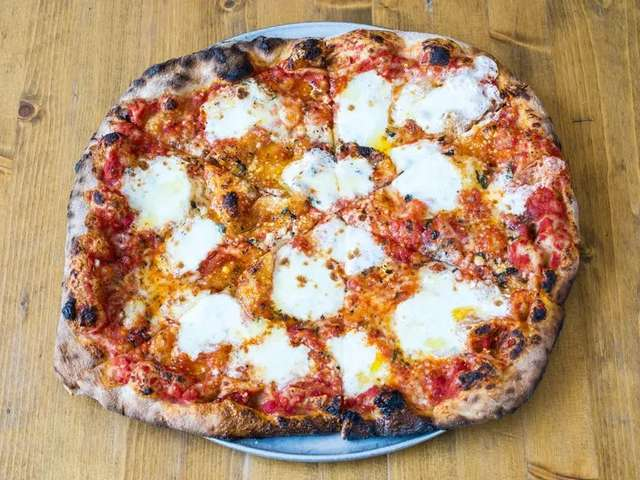
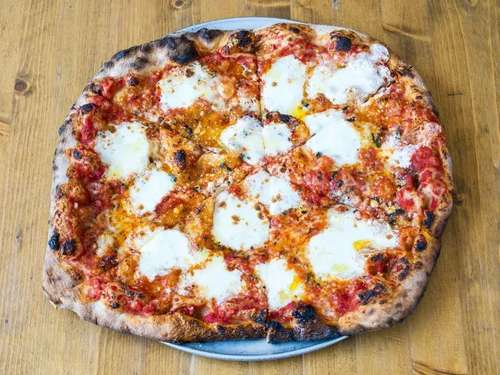
displaying images responsively

diff --git a/js/main.js b/js/main.js
@@ -136,11 +136,14 @@ fillRestaurantsHTML = (restaurants = self.restaurants) => {
  * Create restaurant HTML.
  */
 createRestaurantHTML = (restaurant) => {
+  const defaultImageUrl = DBHelper.imageUrlForRestaurant(restaurant);
   const li = document.createElement('li');
 
   const image = document.createElement('img');
   image.className = 'restaurant-img';
-  image.src = DBHelper.imageUrlForRestaurant(restaurant);
+  image.src = defaultImageUrl;
+  image.srcset = defaultImageUrl + " 800w, " + defaultImageUrl.slice(0, -4) + "-medium.jpg" + " 500w";
+
   li.append(image);
 
   const name = document.createElement('h1');

diff --git a/css/styles.css b/css/styles.css
@@ -151,7 +151,6 @@ nav h1 a {
 #restaurants-list .restaurant-img {
   background-color: #ccc;
   display: block;
-  margin: auto;
   margin-top: 20px;
   max-width: 100%;
   min-height: 248px;
@@ -327,3 +326,9 @@ img, embed, object, video {
 
 
 /* ====================== Break Points ====================== */
+@media screen and (min-width: 800px) {
+  img {
+    width: 800px;
+    margin: auto;
+  }
+}

diff --git a/js/dbhelper.js b/js/dbhelper.js
@@ -150,7 +150,7 @@ class DBHelper {
    * Restaurant image URL.
    */
   static imageUrlForRestaurant(restaurant) {
-    return (`/img/${restaurant.photograph}`);
+    return (`/images/${restaurant.photograph}`);
   }
 
   /**

diff --git a/Gruntfile.js b/Gruntfile.js
@@ -19,7 +19,7 @@ module.exports = function(grunt) {
         height: 240
       },{
         name: 'medium',
-        width: 640,
+        width: 500,
         quality: 60
       }]
         },
